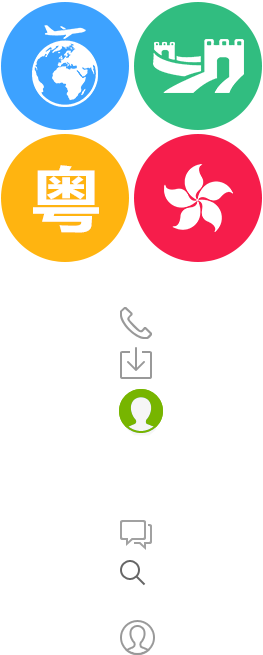
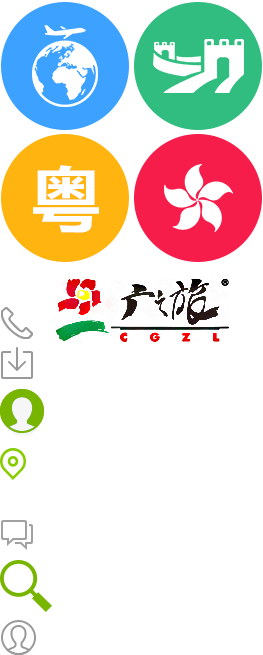
首页完成 Signed-off-by: jamie <jamiextsang@gmail.com>

diff --git a/index.html b/index.html
@@ -19,10 +19,16 @@
 <body>
 <div class="indexCont">
     <div class="top-wrap">
-        <div class="search-index js_search_index">
-            <div><span>搜索:路线/景点</span></div>
-            <a href="account/index.html" class="notice-my-account"
-               rel="nofollow"><span>个人中心</span></a></div>
+        <div class="header cf">
+            <div class="gzl-logo">
+                <a href="http://www.aoyou.com" title="遨游网">遨游网</a>
+            </div>
+            <div class="cityWrap cf">
+                <span><i></i><em id="mycity" cid="1">广州</em></span>
+                <label id="lbldest" for=""><a href="javascript:void(0)" class="searchBtn"></a></label>
+            </div>
+            <a href="account/index.html" class="notice-account"><span>个人中心</span></a>
+        </div>
     </div>
     <div class="db index-head">
         <div id="ctm_tour_detail_pics" class="img_wrap js_detail_pic_slide">
@@ -112,32 +118,80 @@
                 <p class="text-wrap">让旅行更出彩</p></div>
 
         </a>
+        <a class="n_xuni layout" href="/gzl/line.html?cid=9582">
+            <div class="img"><img src="subject/img/ticket.png"></div>
+            <div class="text"><h1 class="text-wrap">门票</h1>
+
+                <p class="text-wrap">门票预订</p></div>
+        </a>
+        <a class="n_xuni layout" href="/gzl/articles.html?cid=9549">
+            <div class="img"><img src="subject/img/payment.png"></div>
+            <div class="text"><h1 class="text-wrap">我要支付</h1>
+
+                <p class="text-wrap">1分钟快捷支付</p></div>
+
+        </a>
         <ul class="ad_wrapper">
             <!-- picSize 620x190_px -->
-            <li class="InputArrow"><a href="index.html"><img data-original="subject/ads/ads1.jpg"></a></li>
-            <li class="InputArrow"><a href="index.html"><img data-original="subject/ads/ads2.jpg"></a></li>
+            <li class="InputArrow"><a href="index.html"><img data-original="subject/ads/ads1.jpg" alt="行走东南亚"></a></li>
+            <li class="InputArrow"><a href="index.html"><img data-original="subject/ads/ads2.jpg" alt="会员招募"></a></li>
         </ul>
     </div>
 
     <div class="db line_waiver js_toActivityList">
-        <h2>最新特惠<span>一日游、美食、娱乐、交通</span></h2>
-        <ul class="t TourList">
+        <h1>最新特惠<span>一日游、美食、娱乐、交通</span></h1>
+        <ul id="tour-index-imgcont" class="TourList">
             <li>
                 <div class="TourImage">
-                    <div class="TourImageCont"></div>
-                    <span class="type type01">跟团游</span> <span class="start">广州出发</span></div>
+                    <div class="TourImageCont">
+                        <img data-original="http://b2b.gzl.com.cn/Administrator/UploadFile/Product/Image/2015/04/20150422115943927.jpg" alt="[1]心之旅-清迈、曼谷、芭堤雅沙美岛四星7天" />
+                    </div>
+                </div>
                 <div class="TourContent"><h3>[1]心之旅-清迈、曼谷、芭堤雅沙美岛四星7天</h3>
 
-                    <div class="discount"><i class="hui">惠</i><i class="tag">奖金抵扣</i><i class="tag">积分抵用</i><i
-                            class="tag">铁定成团</i></div>
-                    <p class="date">每周二、四、六</p>
+                    <div class="price"><dfn>¥</dfn><strong>1000</strong>起</div>
+                </div>
+            </li>
+            <li>
+                <div class="TourImage">
+                    <div class="TourImageCont">
+                        <img data-original="http://b2b.gzl.com.cn/Administrator/UploadFile/Product/Image/2015/05/20150505155525302.jpg" alt="[1]心之旅-清迈、曼谷、芭堤雅沙美岛四星7天" >
+                    </div>
+                </div>
+                <div class="TourContent"><h3>[1]心之旅-清迈、曼谷、芭堤雅沙美岛四星7天</h3>
+
+                    <div class="price"><dfn>¥</dfn><strong>1000</strong>起</div>
+                </div>
+            </li>
+            <li>
+                <div class="TourImage">
+                    <div class="TourImageCont">
+                        <img data-original="http://b2b.gzl.com.cn/Administrator/UploadFile/Product/Image/2014/01/20140108100051027.jpg" alt="[1]心之旅-清迈、曼谷、芭堤雅沙美岛四星7天" >
+                    </div>
+                </div>
+                <div class="TourContent"><h3>[1]心之旅-清迈、曼谷、芭堤雅沙美岛四星7天</h3>
+
+                    <div class="price"><dfn>¥</dfn><strong>1000</strong>起</div>
+                </div>
+            </li>
+            <li>
+                <div class="TourImage">
+                    <div class="TourImageCont">
+                        <img data-original="http://b2b.gzl.com.cn/Administrator/UploadFile/Product/Image/2015/06/20150629163835581.jpg" alt="[1]心之旅-清迈、曼谷、芭堤雅沙美岛四星7天" />
+                    </div>
+                </div>
+                <div class="TourContent"><h3>[1]心之旅-清迈、曼谷、芭堤雅沙美岛四星7天</h3>
 
                     <div class="price"><dfn>¥</dfn><strong>1000</strong>起</div>
                 </div>
             </li>
         </ul>
     </div>
-
+    <footer class="tool-box">
+        <div class="tool-ver">
+            <a href="###" class="english" rel="nofollow">关于广之旅</a>｜<a href="http://www.gzl.com.cn" class="computer" rel="nofollow">电脑版</a></div>
+        <p>©<label>2015</label>广州广之旅</p>
+    </footer>
 </div>
 <script>
     $(function () {
@@ -185,7 +239,7 @@
 
         (function () {
[1 lines of base64/hex data omitted]
-            $('.ad_wrapper img').lazyload({
+            $('.ad_wrapper img,#tour-index-imgcont .TourImageCont img').lazyload({
                 placeholder: blankPic
             });
         })();
